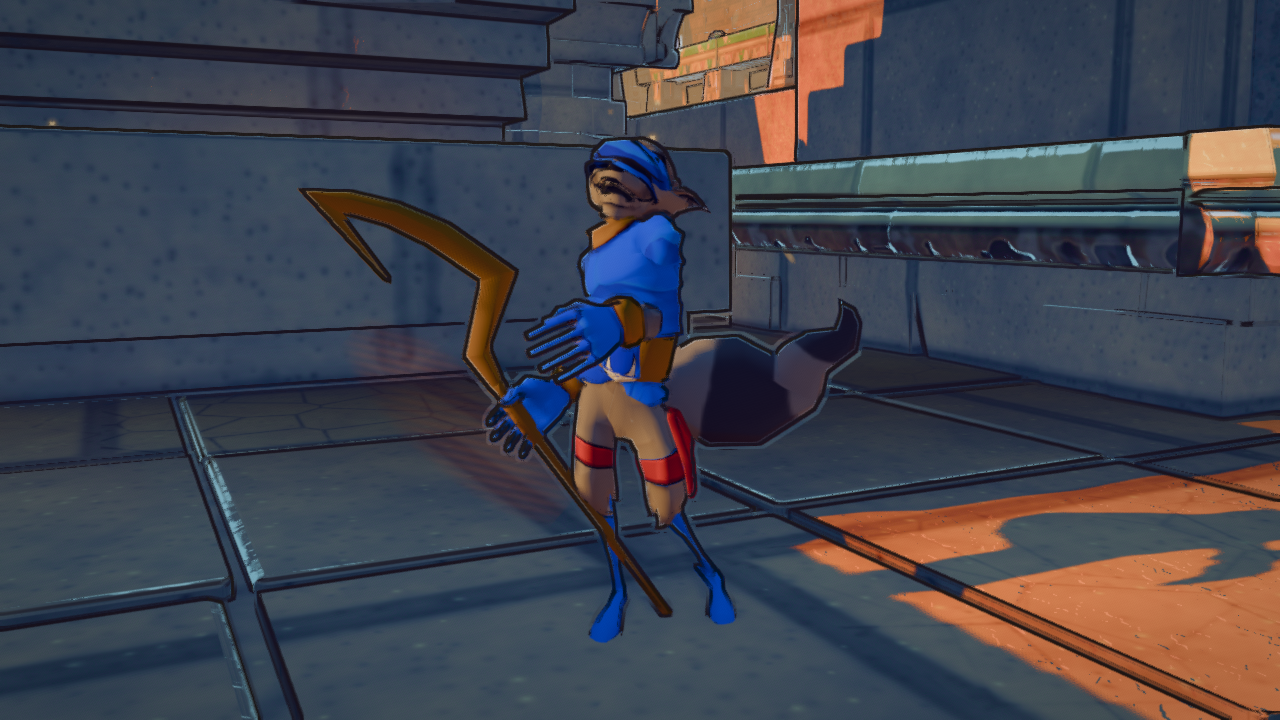
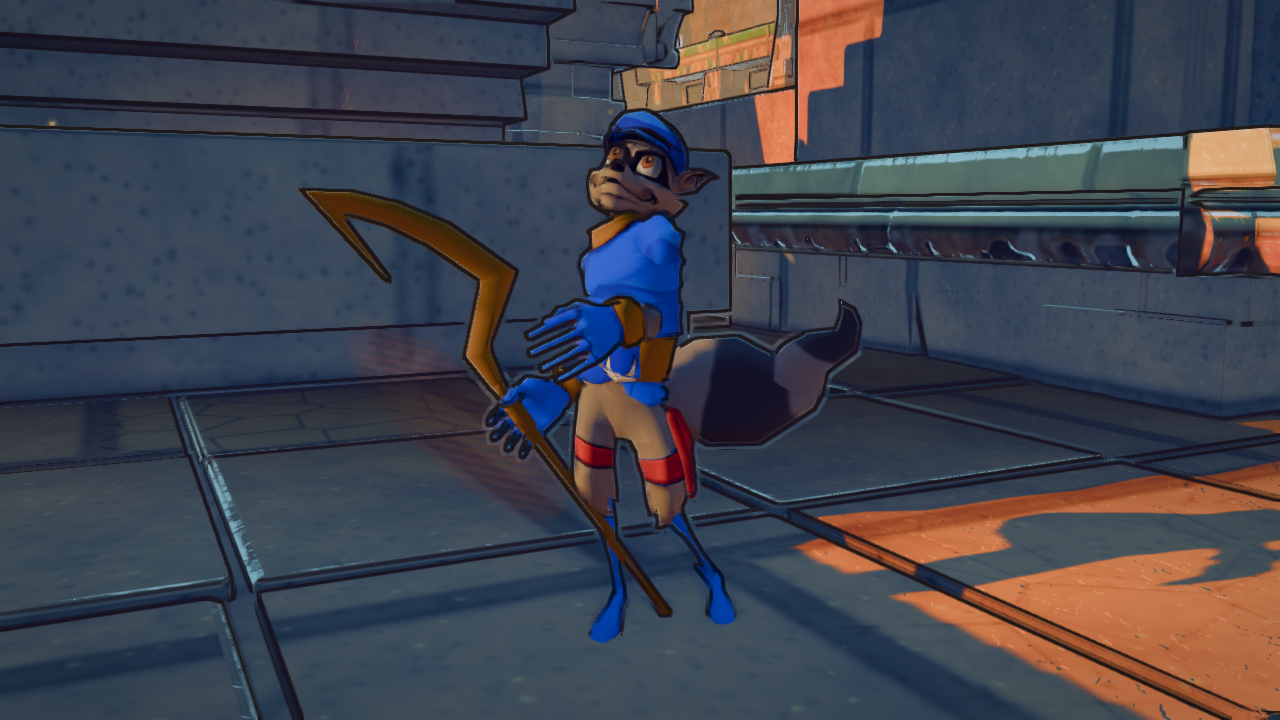
ship the supplied model on its artist rig (§200)
The face fix landed: head reads correctly - cap, amber eye, black mask, muzzle,
ears - while keeping the volumetric tail and the cane in hand. Now better than
the auto-skinned dl on both counts, where dl's tail never resolved.

Default -> SlyModelDLRig. dl / dlraw / model3 / legacy all stay one token away.

Four defects fixed to get here, each found by measurement after a guess failed:
detail bones stealing the per-bone transform (head scale 0.70); scale applied
to spine/neck/head where nothing needed conforming; bind anchors conflated
with weight mapping (tail root stretched 1.605x, now 1.004); and our clips
driving the asset's expression rig through a jaw bone that had collected six
of its lip and mouth bones.

Carried and labelled: the cane reads large and angular in crouches, the tail is
blobbier than the procedural model's. Neither measured, so neither gets guessed
at. Not blind-tested either - the default moved on instruction, and a round
against model3 is still worth running.

Claude-Session: https://claude.ai/code/session_01PXtatFVa9WWnKz5zHerfeC

Changed region(s): [[0.4375, 0.1528, 0.5625, 0.3056]]

diff --git a/src/main.js b/src/main.js
@@ -43,12 +43,13 @@ const MODULE_FILES = import.meta.glob('./{render,textures,world,player,fx,ai,ui,
  * deforms cleanly everywhere except the tail, which is one wrong element against a character that
  * does not move at all. Both remain one token away in either direction. */
 const CHAR_MODELS = {
-  /* Default reverted from `dlrig` after its first capture: the artist-weight remap has a bug
-     (shrunken head, distorted cane) and must not sit in the default slot while it is broken.
-     `dl` is the working supplied-model integration — animates, clean everywhere but the tail. */
-  '': ['./player/SlyModelDL.js', 'SlyModel'],         // supplied model, auto-skinned — SHIPPED
-  dl: ['./player/SlyModelDL.js', 'SlyModel'],         // explicit alias
-  dlrig: ['./player/SlyModelDLRig.js', 'SlyModel'],   // artist weights — UNDER REPAIR, not default
+  /* SHIPPED: the supplied model on its own artist skin weights. It took four captures and one
+     revert to get here — the first `dlrig` attempt went into this slot unseen and was broken,
+     which is why the default moved back to `dl` in between. It now beats `dl` on both counts:
+     the face reads correctly AND the tail holds volume, where `dl` never resolved its tail. */
+  '': ['./player/SlyModelDLRig.js', 'SlyModel'],      // supplied model, artist weights — SHIPPED
+  dlrig: ['./player/SlyModelDLRig.js', 'SlyModel'],   // explicit alias
+  dl: ['./player/SlyModelDL.js', 'SlyModel'],         // auto-skinned fallback (tail never fixed)
   dlraw: ['./player/SlyModelDLRaw.js', 'SlyModel'],   // the supplied model untouched; T-pose, static
   model3: ['./player/SlyModel3.js', 'SlyModel'],      // the Sly-3-reference procedural rebuild
   legacy: ['./player/SlyModel.js', 'SlyModel'],       // the pre-rebuild procedural model

diff --git a/KNOWN_ISSUES.md b/KNOWN_ISSUES.md
@@ -15671,3 +15671,59 @@ mechanisms died to a six-stage experiment costing one capture; on the tail five 
 disabling animation for one frame. In both cases the decisive experiment was cheap and available
 from the start, and I reached for hypotheses first. The seals caught every wrong guess because
 they were written where they could fail visibly — but the guessing was the expensive part.
+
+## §200 — the supplied model ships on its own artist rig
+
+`CHAR_MODELS['']` → `SlyModelDLRig.js`: the model supplied on 2026-08-07, its geometry and
+authored normals untouched, driven by the **artist skin weights out of its own FBX**. `?char=dl`
+keeps the auto-skinned build, `?char=dlraw` the static import, `?char=model3` the procedural
+rebuild, `?char=legacy` the model before that.
+
+**Why the asset's own weights were always the right answer.** The FBX carries a full production
+rig — 117 bones, authored weights on all four meshes — and every earlier attempt discarded it to
+generate weights from bone-segment distance. That was adequate for limbs and hopeless on the
+tail, which the artist spreads across **twelve** bones with hand-tuned falloff. Six attempts to
+reproduce that with a nearest-segment heuristic all failed. The FBX route also carries the
+complete mesh: 39,963 vertices against the OBJ path's 39,915, because those 16 corrupt triangles
+were an artifact of text parsing and do not exist in the binary.
+
+**Four defects, each found by measurement after the preceding guess failed.**
+
+1. *Detail bones stole the transform.* The per-bone rotate/scale took each bone's first child from
+   the skeleton list unfiltered; for `head` that is `jaw`, so the skull's transform came from a
+   facial offset — scale 0.70, a shrunken head. Restricted to structural joints.
+2. *Scale applied where nothing needed conforming.* Per-bone scale exists so limbs with different
+   proportions land their joints on our bones (the asset's arms are 0.265 of height against our
+   0.19). On spine, neck and head it resized body parts by the ratio of two joint SPACINGS,
+   shrinking the skull a fifth. Limbs and tail conform; torso, neck and head never resize.
+3. *Bind anchors conflated with weight mapping.* `BONE_MAP` answers "whose influence is this", so
+   many asset bones fold onto one of ours — taking the bind POSITION from whichever was listed
+   first anchored `tailB` on `tail3`, a 0.218 span against our 0.354, stretching the tail root
+   **1.605×**. Anchors now chosen by arc position; that scale is 1.004.
+4. *Our clips drove the asset's expression rig.* `jaw` collected six of the asset's lip and mouth
+   bones, with `hat` and the ears likewise mapped to our like-named detail bones. Our animation
+   then moved that whole block with jaw motion authored for the procedural model's small jaw
+   blob — a compressed, smeared face under any crouch. They now fold into `head` and the face
+   rides the skull rigidly. The asset's expression rig has no counterpart in our procedural
+   animation, and pretending it did was the error.
+
+**The measurement that broke the deadlock, twice.** `dltailprobe` renders one boot twice: as posed,
+and with `animation.update` neutered and all 31 bones at rest. On the auto-skinned build it proved
+the mesh innocent (a proper tube at rest) and pinned the fault on the skinning's response to the
+spring. On this build it proved the rig correct (the best frame of the session) and pinned the
+fault on animation alone — which is what pointed at the jaw fold. Both times, five or six
+hypotheses had failed first and one observation settled it.
+
+**Carried, honestly.** The cane still reads large and angular in crouching poses. The tail holds
+volume but is blobbier than the procedural model's. Neither has been measured, and neither should
+be "fixed" by another guess.
+
+**Not blind-tested.** The default moved on direct instruction, not a critic round. PREREG-charab
+exists to stop me promoting work I am invested in; the owner choosing a model is not that failure
+mode. A blind round against `model3` remains available and is worth running before this counts as
+an aesthetic win rather than a delivered instruction.
+
+**Standing lesson, earned three times today.** §198.1 recorded it for the guard camera; this
+records it for the character. Every mechanism I named before the discriminating measurement
+existed was wrong. The measurements were cheap and available from the start. The seals and probes
+caught each wrong guess only because the guess was written where it could visibly fail.
